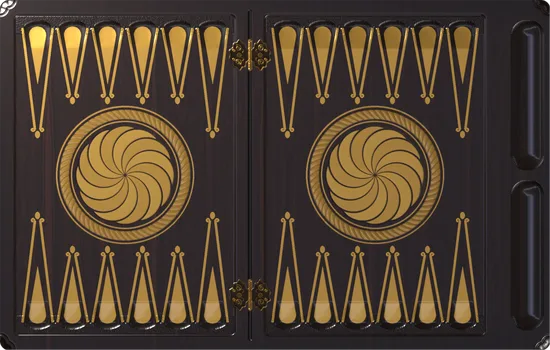
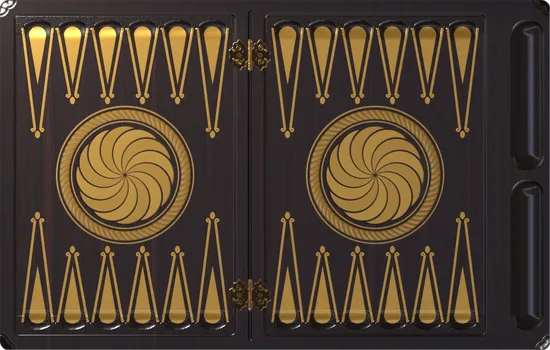
«Золотой аревахач»: перерендер доски без светлых коробок у основания пунктов
Claude-Session: https://claude.ai/code/session_013vq6NREHT7txoK1nXmxN83

diff --git a/index.html b/index.html
@@ -1022,7 +1022,7 @@ const GAME_VERSION='1.0';
 const APP_VERSION='131';   // совпадает с V в sw.js: номер сборки (имя кэша)
 // AV — короткие хеши содержимого картинок (их пишет tools/stamp.py): адрес меняется, только когда меняется сам файл,
 // поэтому после обновления заново качается лишь то, что изменилось
-/*AV*/const AV={"boards/ararat-thumb.webp":"72ff05c2","boards/ararat.webp":"7c44b1ce","boards/ck-beech.png":"ef00f4f8","boards/ck-bronze.png":"db6b57b9","boards/ck-copper.png":"761c282a","boards/ck-gold.png":"87fddeef","boards/ck-ivory.png":"372b72ce","boards/ck-onyx.png":"bfb41b3a","boards/ck-pearl.png":"83aaf841","boards/ck-pomegranate.png":"73a5236d","boards/ck-silver.png":"18222740","boards/ck-walnut.png":"1857427e","boards/ckside-beech.png":"2e4a01b1","boards/ckside-bronze.png":"700fbb0d","boards/ckside-copper.png":"54a53742","boards/ckside-gold.png":"f3c3b036","boards/ckside-ivory.png":"cce1b2d9","boards/ckside-onyx.png":"3695f6bf","boards/ckside-pearl.png":"d9c5e6f3","boards/ckside-pomegranate.png":"79fe0975","boards/ckside-silver.png":"6d16c666","boards/ckside-walnut.png":"bc0fa647","boards/die-1.png":"2d6046dd","boards/die-2.png":"dba1ef51","boards/die-3.png":"c4754c62","boards/die-4.png":"c26495e1","boards/die-5.png":"49661381","boards/die-6.png":"3d46b683","boards/die-amber-1.png":"105d06f3","boards/die-amber-2.png":"f7695264","boards/die-amber-3.png":"518fcc5b","boards/die-amber-4.png":"82e42d65","boards/die-amber-5.png":"a53a1fed","boards/die-amber-6.png":"6114a46b","boards/die-gold-1.png":"606f1c7a","boards/die-gold-2.png":"68eb7219","boards/die-gold-3.png":"4abf64c2","boards/die-gold-4.png":"7ff8a963","boards/die-gold-5.png":"9f589a63","boards/die-gold-6.png":"f67c180d","boards/die-wood-1.png":"f9fecd23","boards/die-wood-2.png":"dad9e71b","boards/die-wood-3.png":"ebe40557","boards/die-wood-4.png":"f8c4f6d2","boards/die-wood-5.png":"239c202c","boards/die-wood-6.png":"ea05a4a3","boards/glass-thumb.webp":"5db12bdb","boards/glass.webp":"3fe1cddb","boards/goldrev-thumb.webp":"f68582fd","boards/goldrev.webp":"f4f6f7dd","boards/intro-rev-w.webp":"c1e7a4bf","boards/intro-rev.webp":"9627dbfd","boards/leafshade.webp":"8666bd89","boards/lid-plain.webp":"32dbab24","boards/lid.webp":"47f4a845","boards/maple.webp":"c7e0d43c","boards/night-thumb.webp":"61a42599","boards/night.webp":"96cd9880","boards/plaque.webp":"6c60c0b6","boards/pomegranate-thumb.webp":"d5574e56","boards/pomegranate.webp":"a89189f5","boards/prop-beads.webp":"01fd0477","boards/prop-cup.webp":"67e8e539","boards/prop-pack.webp":"a1f55e5d","boards/pt-ararat-long.png":"b706af0c","boards/pt-ararat-short.png":"0d9bdbb6","boards/pt-glass-long.png":"2474d3b3","boards/pt-glass-short.png":"2474d3b3","boards/pt-goldrev-long.png":"b706af0c","boards/pt-goldrev-short.png":"0d9bdbb6","boards/pt-night-long.png":"c9576df0","boards/pt-night-short.png":"c9576df0","boards/pt-pomegranate-long.png":"b706af0c","boards/pt-pomegranate-short.png":"0d9bdbb6","boards/pt-sevan-long.png":"b706af0c","boards/pt-sevan-short.png":"0d9bdbb6","boards/pt-yerevan-long.png":"f28ec383","boards/pt-yerevan-short.png":"78fa0ed8","boards/sevan-thumb.webp":"35db3522","boards/sevan.webp":"56ec51be","boards/table.webp":"d353fc6c","boards/walnut-plank.webp":"3f05219c","boards/yerevan-thumb.webp":"4817779b","boards/yerevan.webp":"64e36c39"};/*/AV*/
+/*AV*/const AV={"boards/ararat-thumb.webp":"72ff05c2","boards/ararat.webp":"7c44b1ce","boards/ck-beech.png":"ef00f4f8","boards/ck-bronze.png":"db6b57b9","boards/ck-copper.png":"761c282a","boards/ck-gold.png":"87fddeef","boards/ck-ivory.png":"372b72ce","boards/ck-onyx.png":"bfb41b3a","boards/ck-pearl.png":"83aaf841","boards/ck-pomegranate.png":"73a5236d","boards/ck-silver.png":"18222740","boards/ck-walnut.png":"1857427e","boards/ckside-beech.png":"2e4a01b1","boards/ckside-bronze.png":"700fbb0d","boards/ckside-copper.png":"54a53742","boards/ckside-gold.png":"f3c3b036","boards/ckside-ivory.png":"cce1b2d9","boards/ckside-onyx.png":"3695f6bf","boards/ckside-pearl.png":"d9c5e6f3","boards/ckside-pomegranate.png":"79fe0975","boards/ckside-silver.png":"6d16c666","boards/ckside-walnut.png":"bc0fa647","boards/die-1.png":"2d6046dd","boards/die-2.png":"dba1ef51","boards/die-3.png":"c4754c62","boards/die-4.png":"c26495e1","boards/die-5.png":"49661381","boards/die-6.png":"3d46b683","boards/die-amber-1.png":"105d06f3","boards/die-amber-2.png":"f7695264","boards/die-amber-3.png":"518fcc5b","boards/die-amber-4.png":"82e42d65","boards/die-amber-5.png":"a53a1fed","boards/die-amber-6.png":"6114a46b","boards/die-gold-1.png":"606f1c7a","boards/die-gold-2.png":"68eb7219","boards/die-gold-3.png":"4abf64c2","boards/die-gold-4.png":"7ff8a963","boards/die-gold-5.png":"9f589a63","boards/die-gold-6.png":"f67c180d","boards/die-wood-1.png":"f9fecd23","boards/die-wood-2.png":"dad9e71b","boards/die-wood-3.png":"ebe40557","boards/die-wood-4.png":"f8c4f6d2","boards/die-wood-5.png":"239c202c","boards/die-wood-6.png":"ea05a4a3","boards/glass-thumb.webp":"5db12bdb","boards/glass.webp":"3fe1cddb","boards/goldrev-thumb.webp":"1b2ad914","boards/goldrev.webp":"898ad659","boards/intro-rev-w.webp":"c1e7a4bf","boards/intro-rev.webp":"9627dbfd","boards/leafshade.webp":"8666bd89","boards/lid-plain.webp":"32dbab24","boards/lid.webp":"47f4a845","boards/maple.webp":"c7e0d43c","boards/night-thumb.webp":"61a42599","boards/night.webp":"96cd9880","boards/plaque.webp":"6c60c0b6","boards/pomegranate-thumb.webp":"d5574e56","boards/pomegranate.webp":"a89189f5","boards/prop-beads.webp":"01fd0477","boards/prop-cup.webp":"67e8e539","boards/prop-pack.webp":"a1f55e5d","boards/pt-ararat-long.png":"b706af0c","boards/pt-ararat-short.png":"0d9bdbb6","boards/pt-glass-long.png":"2474d3b3","boards/pt-glass-short.png":"2474d3b3","boards/pt-goldrev-long.png":"b706af0c","boards/pt-goldrev-short.png":"0d9bdbb6","boards/pt-night-long.png":"c9576df0","boards/pt-night-short.png":"c9576df0","boards/pt-pomegranate-long.png":"b706af0c","boards/pt-pomegranate-short.png":"0d9bdbb6","boards/pt-sevan-long.png":"b706af0c","boards/pt-sevan-short.png":"0d9bdbb6","boards/pt-yerevan-long.png":"f28ec383","boards/pt-yerevan-short.png":"78fa0ed8","boards/sevan-thumb.webp":"35db3522","boards/sevan.webp":"56ec51be","boards/table.webp":"d353fc6c","boards/walnut-plank.webp":"3f05219c","boards/yerevan-thumb.webp":"4817779b","boards/yerevan.webp":"64e36c39"};/*/AV*/
 const av=p=>p+'?v='+(AV[p]||APP_VERSION);
 const NS='http://www.w3.org/2000/svg';
 const f2=v=>(+v).toFixed(1);

diff --git a/sw.js b/sw.js
@@ -2,7 +2,7 @@
 const V = '131';                 // = APP_VERSION в index.html
 const VERSION = 'nardy-v' + V;
 // хеши содержимого картинок — те же, что AV в index.html (пишет tools/stamp.py)
-/*AV*/const AV={"boards/ararat-thumb.webp":"72ff05c2","boards/ararat.webp":"7c44b1ce","boards/ck-beech.png":"ef00f4f8","boards/ck-bronze.png":"db6b57b9","boards/ck-copper.png":"761c282a","boards/ck-gold.png":"87fddeef","boards/ck-ivory.png":"372b72ce","boards/ck-onyx.png":"bfb41b3a","boards/ck-pearl.png":"83aaf841","boards/ck-pomegranate.png":"73a5236d","boards/ck-silver.png":"18222740","boards/ck-walnut.png":"1857427e","boards/ckside-beech.png":"2e4a01b1","boards/ckside-bronze.png":"700fbb0d","boards/ckside-copper.png":"54a53742","boards/ckside-gold.png":"f3c3b036","boards/ckside-ivory.png":"cce1b2d9","boards/ckside-onyx.png":"3695f6bf","boards/ckside-pearl.png":"d9c5e6f3","boards/ckside-pomegranate.png":"79fe0975","boards/ckside-silver.png":"6d16c666","boards/ckside-walnut.png":"bc0fa647","boards/die-1.png":"2d6046dd","boards/die-2.png":"dba1ef51","boards/die-3.png":"c4754c62","boards/die-4.png":"c26495e1","boards/die-5.png":"49661381","boards/die-6.png":"3d46b683","boards/die-amber-1.png":"105d06f3","boards/die-amber-2.png":"f7695264","boards/die-amber-3.png":"518fcc5b","boards/die-amber-4.png":"82e42d65","boards/die-amber-5.png":"a53a1fed","boards/die-amber-6.png":"6114a46b","boards/die-gold-1.png":"606f1c7a","boards/die-gold-2.png":"68eb7219","boards/die-gold-3.png":"4abf64c2","boards/die-gold-4.png":"7ff8a963","boards/die-gold-5.png":"9f589a63","boards/die-gold-6.png":"f67c180d","boards/die-wood-1.png":"f9fecd23","boards/die-wood-2.png":"dad9e71b","boards/die-wood-3.png":"ebe40557","boards/die-wood-4.png":"f8c4f6d2","boards/die-wood-5.png":"239c202c","boards/die-wood-6.png":"ea05a4a3","boards/glass-thumb.webp":"5db12bdb","boards/glass.webp":"3fe1cddb","boards/goldrev-thumb.webp":"f68582fd","boards/goldrev.webp":"f4f6f7dd","boards/intro-rev-w.webp":"c1e7a4bf","boards/intro-rev.webp":"9627dbfd","boards/leafshade.webp":"8666bd89","boards/lid-plain.webp":"32dbab24","boards/lid.webp":"47f4a845","boards/maple.webp":"c7e0d43c","boards/night-thumb.webp":"61a42599","boards/night.webp":"96cd9880","boards/plaque.webp":"6c60c0b6","boards/pomegranate-thumb.webp":"d5574e56","boards/pomegranate.webp":"a89189f5","boards/prop-beads.webp":"01fd0477","boards/prop-cup.webp":"67e8e539","boards/prop-pack.webp":"a1f55e5d","boards/pt-ararat-long.png":"b706af0c","boards/pt-ararat-short.png":"0d9bdbb6","boards/pt-glass-long.png":"2474d3b3","boards/pt-glass-short.png":"2474d3b3","boards/pt-goldrev-long.png":"b706af0c","boards/pt-goldrev-short.png":"0d9bdbb6","boards/pt-night-long.png":"c9576df0","boards/pt-night-short.png":"c9576df0","boards/pt-pomegranate-long.png":"b706af0c","boards/pt-pomegranate-short.png":"0d9bdbb6","boards/pt-sevan-long.png":"b706af0c","boards/pt-sevan-short.png":"0d9bdbb6","boards/pt-yerevan-long.png":"f28ec383","boards/pt-yerevan-short.png":"78fa0ed8","boards/sevan-thumb.webp":"35db3522","boards/sevan.webp":"56ec51be","boards/table.webp":"d353fc6c","boards/walnut-plank.webp":"3f05219c","boards/yerevan-thumb.webp":"4817779b","boards/yerevan.webp":"64e36c39"};/*/AV*/
+/*AV*/const AV={"boards/ararat-thumb.webp":"72ff05c2","boards/ararat.webp":"7c44b1ce","boards/ck-beech.png":"ef00f4f8","boards/ck-bronze.png":"db6b57b9","boards/ck-copper.png":"761c282a","boards/ck-gold.png":"87fddeef","boards/ck-ivory.png":"372b72ce","boards/ck-onyx.png":"bfb41b3a","boards/ck-pearl.png":"83aaf841","boards/ck-pomegranate.png":"73a5236d","boards/ck-silver.png":"18222740","boards/ck-walnut.png":"1857427e","boards/ckside-beech.png":"2e4a01b1","boards/ckside-bronze.png":"700fbb0d","boards/ckside-copper.png":"54a53742","boards/ckside-gold.png":"f3c3b036","boards/ckside-ivory.png":"cce1b2d9","boards/ckside-onyx.png":"3695f6bf","boards/ckside-pearl.png":"d9c5e6f3","boards/ckside-pomegranate.png":"79fe0975","boards/ckside-silver.png":"6d16c666","boards/ckside-walnut.png":"bc0fa647","boards/die-1.png":"2d6046dd","boards/die-2.png":"dba1ef51","boards/die-3.png":"c4754c62","boards/die-4.png":"c26495e1","boards/die-5.png":"49661381","boards/die-6.png":"3d46b683","boards/die-amber-1.png":"105d06f3","boards/die-amber-2.png":"f7695264","boards/die-amber-3.png":"518fcc5b","boards/die-amber-4.png":"82e42d65","boards/die-amber-5.png":"a53a1fed","boards/die-amber-6.png":"6114a46b","boards/die-gold-1.png":"606f1c7a","boards/die-gold-2.png":"68eb7219","boards/die-gold-3.png":"4abf64c2","boards/die-gold-4.png":"7ff8a963","boards/die-gold-5.png":"9f589a63","boards/die-gold-6.png":"f67c180d","boards/die-wood-1.png":"f9fecd23","boards/die-wood-2.png":"dad9e71b","boards/die-wood-3.png":"ebe40557","boards/die-wood-4.png":"f8c4f6d2","boards/die-wood-5.png":"239c202c","boards/die-wood-6.png":"ea05a4a3","boards/glass-thumb.webp":"5db12bdb","boards/glass.webp":"3fe1cddb","boards/goldrev-thumb.webp":"1b2ad914","boards/goldrev.webp":"898ad659","boards/intro-rev-w.webp":"c1e7a4bf","boards/intro-rev.webp":"9627dbfd","boards/leafshade.webp":"8666bd89","boards/lid-plain.webp":"32dbab24","boards/lid.webp":"47f4a845","boards/maple.webp":"c7e0d43c","boards/night-thumb.webp":"61a42599","boards/night.webp":"96cd9880","boards/plaque.webp":"6c60c0b6","boards/pomegranate-thumb.webp":"d5574e56","boards/pomegranate.webp":"a89189f5","boards/prop-beads.webp":"01fd0477","boards/prop-cup.webp":"67e8e539","boards/prop-pack.webp":"a1f55e5d","boards/pt-ararat-long.png":"b706af0c","boards/pt-ararat-short.png":"0d9bdbb6","boards/pt-glass-long.png":"2474d3b3","boards/pt-glass-short.png":"2474d3b3","boards/pt-goldrev-long.png":"b706af0c","boards/pt-goldrev-short.png":"0d9bdbb6","boards/pt-night-long.png":"c9576df0","boards/pt-night-short.png":"c9576df0","boards/pt-pomegranate-long.png":"b706af0c","boards/pt-pomegranate-short.png":"0d9bdbb6","boards/pt-sevan-long.png":"b706af0c","boards/pt-sevan-short.png":"0d9bdbb6","boards/pt-yerevan-long.png":"f28ec383","boards/pt-yerevan-short.png":"78fa0ed8","boards/sevan-thumb.webp":"35db3522","boards/sevan.webp":"56ec51be","boards/table.webp":"d353fc6c","boards/walnut-plank.webp":"3f05219c","boards/yerevan-thumb.webp":"4817779b","boards/yerevan.webp":"64e36c39"};/*/AV*/
 const av = p => AV[p] ? p + '?v=' + AV[p] : p;
 const SHELL = [
   './',
